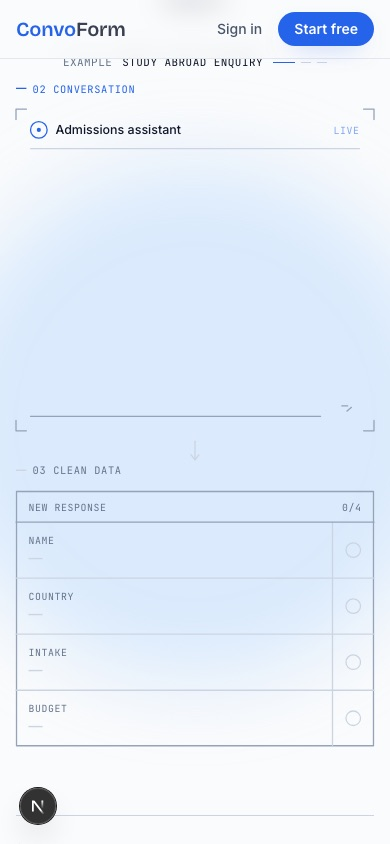
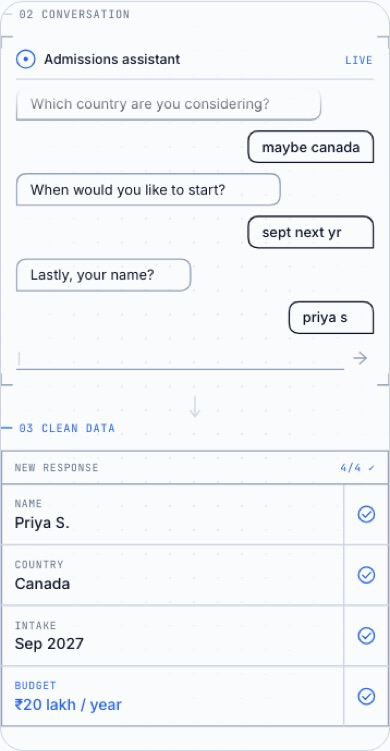
style: 💄 frame illustration stages with hairline dot grid
The hero and How-it-works stages used blurred blue glows behind the illustrations. Replace them with a quiet framed surface so blue only appears in the drawing.

- remove the stage glows and add paper, a 1px hair border and DESIGN radii
- keep the dot grid inside the stage and mask it toward the edges
- document the Quiet Stage Rule in DESIGN.md

diff --git a/apps/web/src/app/(public)/(landingPage)/_components/heroStage.tsx b/apps/web/src/app/(public)/(landingPage)/_components/heroStage.tsx
@@ -44,23 +44,11 @@ export function HeroStage() {
     <div
       role="img"
       aria-label={STAGE_LABEL}
-      className="relative mx-auto mt-6 h-[420px] w-full max-w-[1040px] overflow-hidden rounded-[22px] min-[900px]:h-[400px] min-[900px]:rounded-[28px]"
+      className="relative mx-auto mt-6 h-[420px] w-full max-w-[1040px] overflow-hidden rounded-[22px] border border-marketing-hair bg-marketing-paper min-[900px]:h-[400px] min-[900px]:rounded-[28px]"
     >
       <div
         aria-hidden="true"
-        className="absolute inset-0 bg-[radial-gradient(circle_at_1px_1px,rgba(15,23,42,0.08)_1px,transparent_0)] bg-[length:22px_22px] [mask-image:radial-gradient(ellipse_at_center,#000_30%,transparent_75%)]"
-      />
-      <div
-        aria-hidden="true"
-        className="pointer-events-none absolute left-1/2 top-1/2 size-[300px] -translate-x-1/2 -translate-y-1/2 rounded-full bg-marketing-blue-300/55 blur-[60px] min-[900px]:size-[420px]"
-      />
-      <div
-        aria-hidden="true"
-        className="pointer-events-none absolute left-[18%] top-[12%] size-[220px] rounded-full bg-marketing-blue-200/55 blur-[60px] min-[900px]:size-[260px]"
-      />
-      <div
-        aria-hidden="true"
-        className="pointer-events-none absolute bottom-[4%] right-[12%] size-[200px] rounded-full bg-marketing-blue-200/55 blur-[60px] min-[900px]:size-[240px]"
+        className="pointer-events-none absolute inset-0 bg-[radial-gradient(circle_at_1px_1px,rgba(15,23,42,0.07)_1px,transparent_0)] bg-[length:22px_22px] [mask-image:radial-gradient(ellipse_at_center,#000_30%,transparent_75%)]"
       />
 
       <div

diff --git a/apps/web/src/app/(public)/(landingPage)/_components/howItWorks/howItWorksStage.tsx b/apps/web/src/app/(public)/(landingPage)/_components/howItWorks/howItWorksStage.tsx
@@ -96,11 +96,11 @@ export function HowItWorksStage({
         ref={stageRef}
         role="img"
         aria-label="Line drawing: a static form's fields peel off into a conversation that asks a follow-up, and the answers flow into a clean data table"
-        className="relative isolate mx-auto mt-2.5 aspect-[345/664] w-full max-w-[420px] min-[900px]:aspect-[1080/336] min-[900px]:max-w-[1080px]"
+        className="relative isolate mx-auto mt-2.5 aspect-[345/664] w-full max-w-[420px] overflow-hidden rounded-[22px] border border-marketing-hair bg-marketing-paper min-[900px]:aspect-[1080/336] min-[900px]:max-w-[1080px] min-[900px]:rounded-[28px]"
       >
         <div
           aria-hidden="true"
-          className="pointer-events-none absolute left-1/2 top-1/2 -z-10 size-[520px] -translate-x-1/2 -translate-y-1/2 rounded-full bg-marketing-blue-300/30 blur-[40px] min-[900px]:h-[380px] min-[900px]:w-[900px]"
+          className="pointer-events-none absolute inset-0 bg-[radial-gradient(circle_at_1px_1px,rgba(15,23,42,0.07)_1px,transparent_0)] bg-[length:22px_22px] [mask-image:radial-gradient(ellipse_at_center,#000_30%,transparent_75%)]"
         />
 
         <div

diff --git a/DESIGN.md b/DESIGN.md
@@ -180,7 +180,7 @@ The page should feel calm, honest and precise, closer to a well-made tool than t
 **Key Characteristics:**
 
 - Off-white paper (`paper`) with white `surface` panels; flat, defined by hairlines rather than shadows.
-- One accent: `blue-600`. The rest of the blue scale only tints, glows and states.
+- One accent: `blue-600`. The rest of the blue scale only tints edges and states.
 - Three type voices: Bricolage Grotesque for headings, Inter for body, JetBrains Mono for labels.
 - 1.25px hairline borders everywhere; dashed hairlines mean "static / before / placeholder".
 - Line-art (hairline SVG) illustrations and viewport-triggered motion with a static final frame.
@@ -203,7 +203,7 @@ Motion tokens (machine-readable copies live in `.impeccable/design.json`):
 | `stagger` | `120ms` | Delay between sibling items in a reveal |
 | `loop-hero` | `8s` | Hero "form shatters into conversation" loop |
 | `loop-scene` | `6s` to `10.8s` | Section loops (before/after, trust icons, how it works) |
-| `ambient` | `9s` to `11s`, `ease-in-out` | Background orb drift, the only infinite CSS animation |
+| `ambient` | `9s` to `11s`, `ease-in-out` | Reserved for non-illustration motion; never behind stages |
 | `hover-lift` | `translateY(-1px)` | Buttons on hover |
 
 **The In-View Rule.** Animations start only when their element is on screen: an IntersectionObserver at `threshold: 0.2` for looping scenes, `0.3` for one-shot reveals (which disconnect after firing). Wait for `document.fonts.ready` before measuring or starting.
@@ -219,7 +219,7 @@ Cool, near-white paper and slate inks, with a single confident blue.
 ### Primary
 
 - **Signal Blue** (`blue-600`): the one accent. Primary buttons, eyebrows, active tabs, links, emphasised words in headings, the "fixed" answer, step numbers. Hover deepens to **Deep Signal Blue** (`blue-700`), which is also the text colour on follow-up bubbles.
-- **Blue tints** (`blue-50` to `blue-500`): never used as a second accent. `blue-50` fills follow-up bubbles; `blue-200`/`blue-300` are the hairline colour of featured panels and active borders; `blue-300`/`blue-400` and `blue-200` feed soft background glows.
+- **Blue tints** (`blue-50` to `blue-500`): never used as a second accent. `blue-50` fills follow-up bubbles; `blue-200`/`blue-300` are the hairline colour of featured panels and active borders. Blue never fills an illustration stage background.
 
 ### Neutral
 
@@ -284,17 +284,19 @@ Load all three from Google Fonts through `next/font/google` (`Bricolage_Grotesqu
 
 ## Elevation & Depth
 
-Flat by default. Depth comes from hairlines, white panels on paper, a faint dotted grid and soft, blurred blue glows behind the one featured element in a section. Shadows are rare and always blue-tinted.
+Flat by default. Depth comes from hairlines, white panels on paper and a faint dotted grid inside framed illustration stages. Shadows are rare and always blue-tinted; illustration stages have none.
 
 ### Shadow Vocabulary
 
 - **Primary button glow** (`box-shadow: 0 10px 26px -14px rgba(37,99,235,.7)`): primary buttons only.
 - **Floating chat** (`box-shadow: 0 22px 50px -30px rgba(37,99,235,.4)`): the hero chat window.
 - **Focus halo** (`box-shadow: 0 0 0 2px #bfdbfe`): a highlighted overlay card.
-- **Background glow:** a radial gradient of `blue-300` at about 32 to 42% alpha, blurred 30 to 60px, placed behind a featured panel. Never more than one per section.
-- **Dot grid:** `radial-gradient(circle at 1px 1px, rgba(15,23,42,.07) 1px, transparent 0)` at `22px 22px`, usually masked to fade at the edges.
+- **Illustration stage:** a `paper` fill, 1px `hair` border, `xl`/28px radius on desktop (22px on mobile), and no shadow. The dot grid lives inside this frame only.
+- **Dot grid:** `radial-gradient(circle at 1px 1px, rgba(15,23,42,.07) 1px, transparent 0)` at `22px 22px`, masked with a radial gradient to fade toward the edges.
 
 **The Hairline-Not-Shadow Rule.** A card is separated from the page by a 1.25px `hair` border, not by a drop shadow.
+
+**The Quiet Stage Rule.** No gradient glows behind illustrations; stages use hairline frame + masked dot grid. Blue appears only in the drawing itself (active field, follow-up bubble, tick, data chips), never in the stage background.
 
 ## Shapes
 
